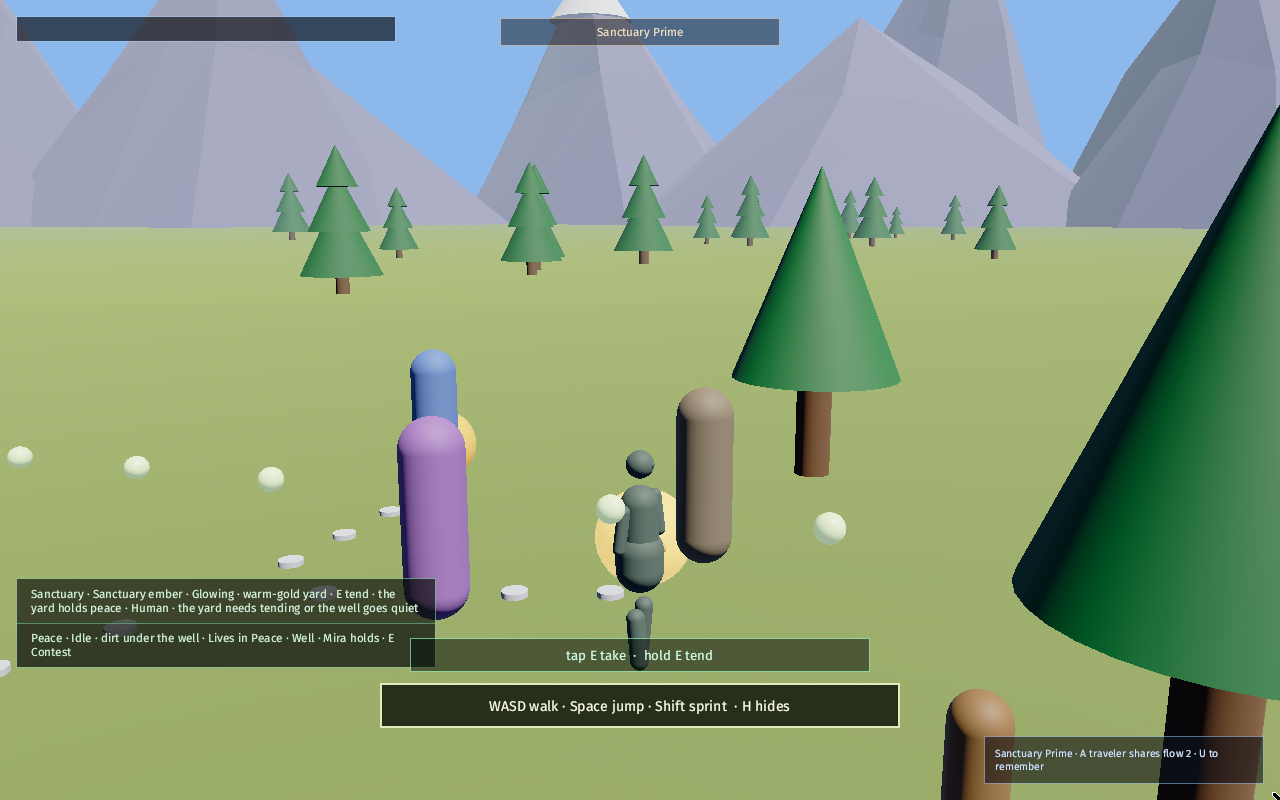
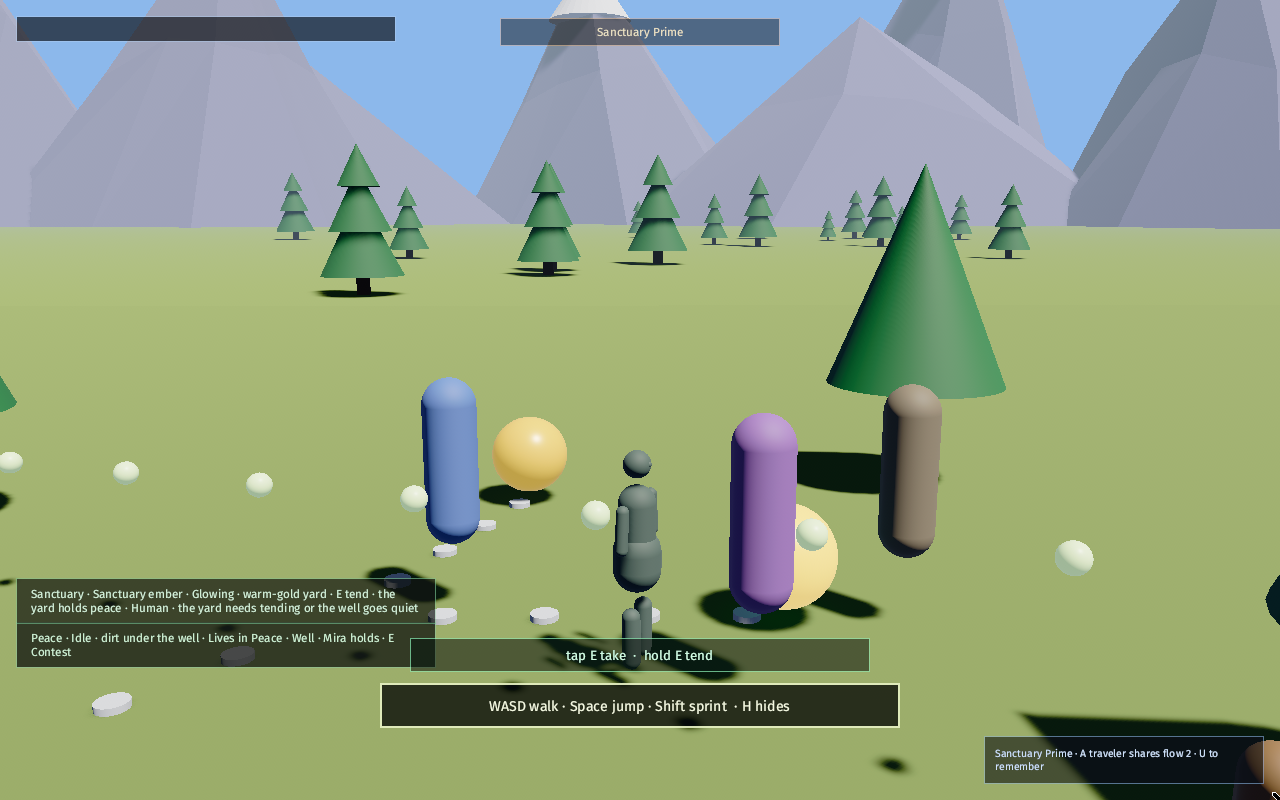
VP-GRADE-1 AMEND: dome NotShadowCaster/Receiver; Sanctuary sun shadows on (Core ruling)

diff --git a/client/src/climate_plane.rs b/client/src/climate_plane.rs
@@ -101,8 +101,8 @@
  * every world `Camera3d` and `VolumetricLight` only on a `DirectionalLight`
  * with shadows on (VISUAL_TARGET L180). Mobile / Low / Medium / High remove
  * both. `fog_bed_for` stays byte-identical. Not in `FogWriteSet`. No
- * `FogSettings` write. The fallback sun (shadows off) never gets
- * `VolumetricLight`.
+ * `FogSettings` write. The one Sanctuary sun (shadows on) gets
+ * `VolumetricLight` on Ultra.
  *
  * CARD LIGHT-BLOOM-1 — High and Ultra insert `BloomSettings` on every world
  * `Camera3d` and set `hdr` (VISUAL_TARGET L225, L226). Mobile / Low / Medium
@@ -790,11 +790,8 @@ pub struct SanctuarySun {
     pub illuminance: f32,
     /// Sun position. The sun looks at the yard origin from here.
     pub position: Vec3,
-    /// Off. The VP-SKY-1 sky dome (Medium and up) sits between this sun and
-    /// the yard and casts into the shadow map, so a shadowed sun leaves the
-    /// yard dark on Medium / High / Ultra. On tip the unshadowed fallback was
-    /// the light that lit those presets. Off also keeps Mobile / Low free of
-    /// a shadow map.
+    /// On: one shadow map, as the tip `main.rs` sun had on every preset. The
+    /// sky dome is `NotShadowCaster`, so it does not shadow the yard.
     pub shadows_enabled: bool,
 }
 
@@ -803,7 +800,7 @@ pub const SANCTUARY_SUN: SanctuarySun = SanctuarySun {
     color: Color::srgb(1.0, 0.98, 0.94),
     illuminance: 12_000.0,
     position: Vec3::new(8.0, 18.0, 8.0),
-    shadows_enabled: false,
+    shadows_enabled: true,
 };
 
 impl SanctuarySun {
@@ -1183,8 +1180,8 @@ fn sync_place_dress_from_travel(
 /// every [`Camera3d`] and [`VolumetricLight`] only on a [`DirectionalLight`]
 /// with `shadows_enabled`. Leaving Ultra removes both. A component that is
 /// already present is left in place. Writes no [`FogSettings`]. Not in
-/// [`FogWriteSet`]. The fallback sun (`shadows_enabled: false`) never
-/// receives [`VolumetricLight`].
+/// [`FogWriteSet`]. A light with `shadows_enabled: false` never receives
+/// [`VolumetricLight`].
 fn sync_ultra_volumetric(
     mut commands: Commands,
     settings: Option<Res<LocalSettingsState>>,
@@ -3672,8 +3669,8 @@ mod tests {
     #[test]
     fn vp_grade_sanctuary_sun_source_is_pinned() {
         assert_eq!(SANCTUARY_SUN.illuminance, 12_000.0);
-        // Off: the Medium+ sky dome shadows a shadowed sun out of the yard.
-        assert!(!SANCTUARY_SUN.shadows_enabled);
+        // On (Core ruling); the dome is NotShadowCaster (sky_backdrop).
+        assert!(SANCTUARY_SUN.shadows_enabled);
         assert_eq!(SANCTUARY_SUN.position, Vec3::new(8.0, 18.0, 8.0));
         assert_eq!(SANCTUARY_SUN.color, Color::srgb(1.0, 0.98, 0.94));
         // Clean white, a hair warm: not the old beige-warm fallback tint.
@@ -3831,6 +3828,37 @@ mod tests {
             assert_eq!(section.gamma, 1.0);
             assert_eq!(section.gain, 1.0);
         }
+    }
+
+    /// CARD VP-GRADE-1 — Ultra puts VolumetricLight on the one shadowed
+    /// Sanctuary sun (main + fallback race, one sun). High removes it.
+    #[test]
+    fn vp_grade_ultra_volumetric_light_on_the_one_sanctuary_sun() {
+        use shared::local_settings::LocalSettings;
+        let mut app = climate_startup_app();
+        let mut settings = LocalSettings::default();
+        settings.set_graphics_preset(GraphicsPreset::Ultra);
+        app.insert_resource(LocalSettingsState {
+            inner: settings,
+            dirty: false,
+        });
+        app.add_systems(Startup, main_like_sun);
+        app.world_mut().spawn(Camera3dBundle::default());
+        app.update();
+        app.update();
+        let world = app.world_mut();
+        let mut q = world.query::<(&DirectionalLight, Option<&VolumetricLight>)>();
+        let lights: Vec<_> = q.iter(world).map(|(l, v)| (l.shadows_enabled, v.is_some())).collect();
+        assert_eq!(lights, vec![(true, true)], "one shadowed sun with VolumetricLight");
+
+        app.world_mut()
+            .resource_mut::<LocalSettingsState>()
+            .inner
+            .set_graphics_preset(GraphicsPreset::High);
+        app.update();
+        let world = app.world_mut();
+        let mut q = world.query_filtered::<(), With<VolumetricLight>>();
+        assert_eq!(q.iter(world).count(), 0, "High removes VolumetricLight");
     }
 
     fn tier_after_one_frame(preset: GraphicsPreset) -> (bool, Option<BloomSettings>) {

diff --git a/client/src/sky_backdrop.rs b/client/src/sky_backdrop.rs
@@ -342,6 +342,26 @@ fn spawn_sky_backdrop(
     let (Some(mut meshes), Some(mut materials)) = (meshes, materials) else {
         return;
     };
+    // CARD VP-GRADE-1 — the dome neither casts nor receives sun shadows, so
+    // the shadowed Sanctuary sun reaches the yard through it.
+    commands.spawn((
+        PbrBundle {
+            mesh: meshes.add(gradient_dome(DOME_RADIUS)),
+            material: materials.add(StandardMaterial {
+                base_color: Color::WHITE,
+                unlit: true,
+                fog_enabled: false,
+                cull_mode: None,
+                ..default()
+            }),
+            transform: Transform::IDENTITY,
+            ..default()
+        },
+        SkyBackdropPart::Dome,
+        Name::new("VP-SKY-1 backdrop"),
+        bevy::pbr::NotShadowCaster,
+        bevy::pbr::NotShadowReceiver,
+    ));
     let mut spawn = |mesh: Mesh, mat: StandardMaterial, part: SkyBackdropPart, t: Transform| {
         commands.spawn((
             PbrBundle {
@@ -354,18 +374,6 @@ fn spawn_sky_backdrop(
             Name::new("VP-SKY-1 backdrop"),
         ));
     };
-    spawn(
-        gradient_dome(DOME_RADIUS),
-        StandardMaterial {
-            base_color: Color::WHITE,
-            unlit: true,
-            fog_enabled: false,
-            cull_mode: None,
-            ..default()
-        },
-        SkyBackdropPart::Dome,
-        Transform::IDENTITY,
-    );
     spawn(
         Plane3d::default().mesh().size(GROUND_SIZE, GROUND_SIZE).build(),
         lit(VALLEY_EARTH, 0.95),
@@ -593,6 +601,43 @@ mod tests {
         assert!(CONIFER_NEEDLE[1] > CONIFER_NEEDLE[0] && CONIFER_NEEDLE[1] > CONIFER_NEEDLE[2]);
         assert!(RIDGE_ROCK[2] > RIDGE_ROCK[0], "ridge leans blue-violet, not beige");
         assert!(!is_brownish(RIDGE_SNOW));
+    }
+
+    /// CARD VP-GRADE-1 — on Medium the dome is shown and carries
+    /// `NotShadowCaster` + `NotShadowReceiver`; no other part does.
+    #[test]
+    fn vp_grade_medium_dome_casts_and_receives_no_shadow() {
+        use bevy::pbr::{NotShadowCaster, NotShadowReceiver};
+        use shared::local_settings::LocalSettings;
+        let mut app = App::new();
+        app.add_plugins((MinimalPlugins, AssetPlugin::default()))
+            .init_asset::<Mesh>()
+            .init_asset::<StandardMaterial>()
+            .insert_resource(SoftPlayerRealm { current: Some(0) });
+        let mut inner = LocalSettings::default();
+        inner.set_graphics_preset(GraphicsPreset::Medium);
+        app.insert_resource(LocalSettingsState { inner, dirty: false });
+        app.add_plugins(SkyBackdropPlugin);
+        app.update();
+        let world = app.world_mut();
+        let mut q = world.query::<(
+            &SkyBackdropPart,
+            &Visibility,
+            Option<&NotShadowCaster>,
+            Option<&NotShadowReceiver>,
+        )>();
+        let mut domes = 0;
+        for (part, vis, caster, receiver) in q.iter(world) {
+            if *part == SkyBackdropPart::Dome {
+                domes += 1;
+                assert_ne!(*vis, Visibility::Hidden, "Medium shows the dome");
+                assert!(caster.is_some(), "dome casts shadows");
+                assert!(receiver.is_some(), "dome receives shadows");
+            } else {
+                assert!(caster.is_none() && receiver.is_none(), "{part:?} tagged");
+            }
+        }
+        assert_eq!(domes, 1);
     }
 
     #[test]
